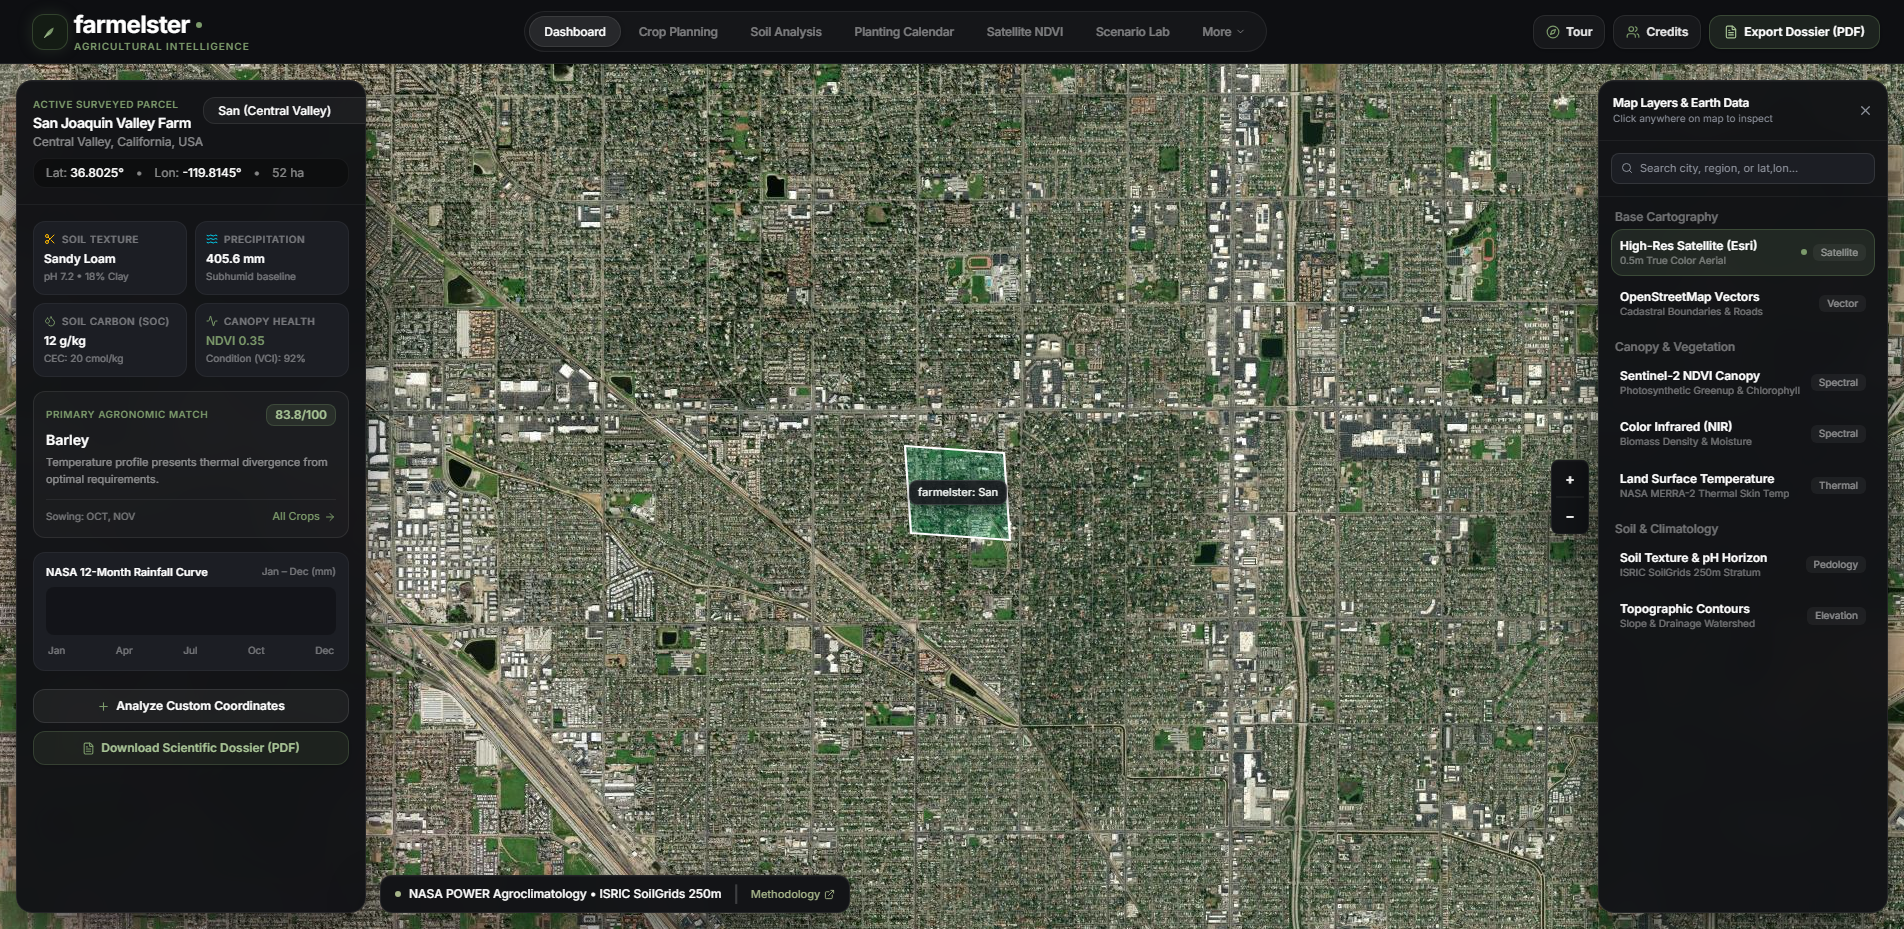
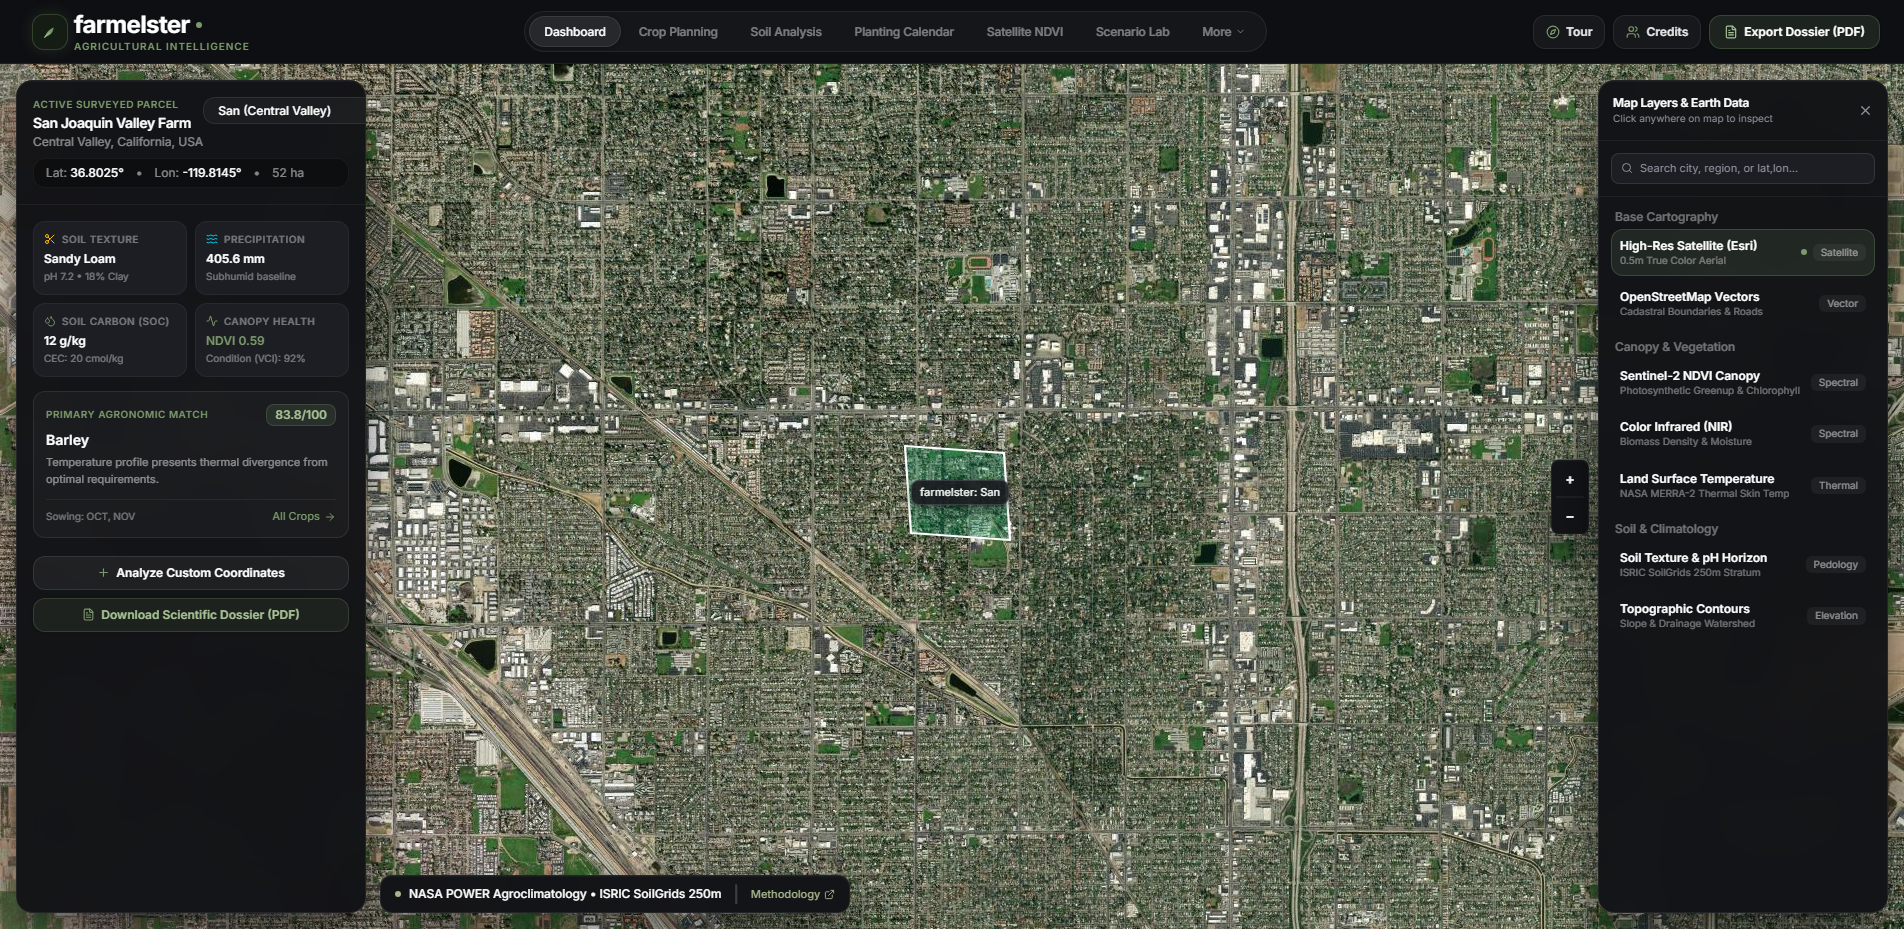
fix(dashboard): remove NASA 12-month rainfall curve component

diff --git a/terramind/frontend/src/components/EarthEyeDashboardView.tsx b/terramind/frontend/src/components/EarthEyeDashboardView.tsx
@@ -398,47 +398,6 @@ export const EarthEyeDashboardView: React.FC<EarthEyeDashboardViewProps> = ({
               </>
             )}
 
-            {/* NASA 12-Month Rainfall Waveform Bar Graphic */}
-            <div className="bg-[#1C1E24] rounded-xl p-3 border border-white/5 space-y-2">
-              <div className="flex items-center justify-between text-xs">
-                <span className="font-semibold text-white text-[11px]">NASA 12-Month Rainfall Curve</span>
-                <span className="text-[10px] text-white/40">Jan – Dec (mm)</span>
-              </div>
-
-              {/* Dynamic Bars */}
-              <div className="flex items-end justify-between h-12 px-1 py-1 bg-black/30 rounded-lg">
-                {climate?.monthly?.map((m) => {
-                  const maxP = Math.max(...climate.monthly.map(x => x.precipitation_mm), 80);
-                  const heightPct = Math.max(10, Math.round((m.precipitation_mm / maxP) * 100));
-                  const color = m.precipitation_mm > 40 ? 'bg-[#7C9A6B]' : m.precipitation_mm > 15 ? 'bg-[#D9A84C]' : 'bg-[#C47B6A]';
-
-                  return (
-                    <div 
-                      key={m.month_index} 
-                      className="group/bar relative flex flex-col items-center flex-1 mx-0.5"
-                    >
-                      <div 
-                        className={`w-full rounded-sm transition-all duration-300 ${color}`} 
-                        style={{ height: `${heightPct}%` }}
-                      />
-                      {/* Tooltip on hover */}
-                      <div className="absolute bottom-full mb-1 hidden group-hover/bar:block bg-[#18191E] border border-white/10 text-[10px] px-1.5 py-0.5 rounded-lg text-white whitespace-nowrap z-50 shadow-lg">
-                        {m.month}: {m.precipitation_mm}mm
-                      </div>
-                    </div>
-                  );
-                })}
-              </div>
-
-              <div className="flex justify-between text-[10px] text-white/40 px-0.5">
-                <span>Jan</span>
-                <span>Apr</span>
-                <span>Jul</span>
-                <span>Oct</span>
-                <span>Dec</span>
-              </div>
-            </div>
-
             {/* Add Custom Parcel Action */}
             <div className="space-y-2 pt-1">
               <button
